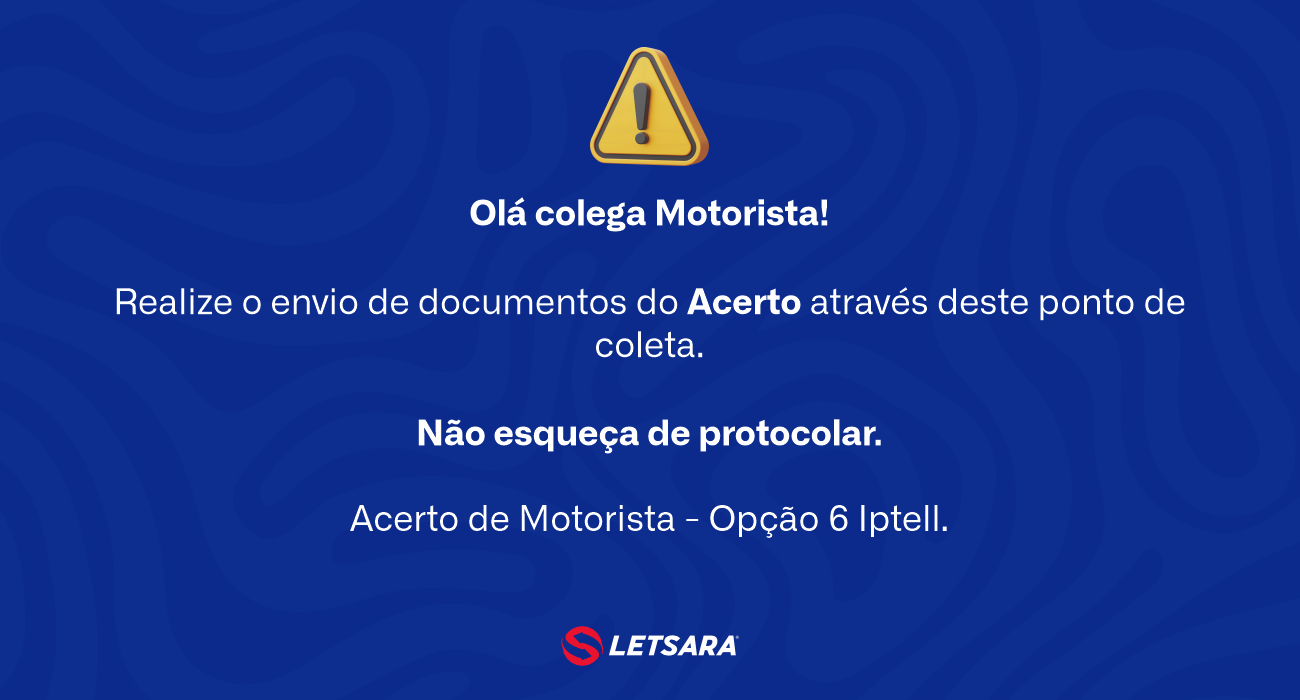
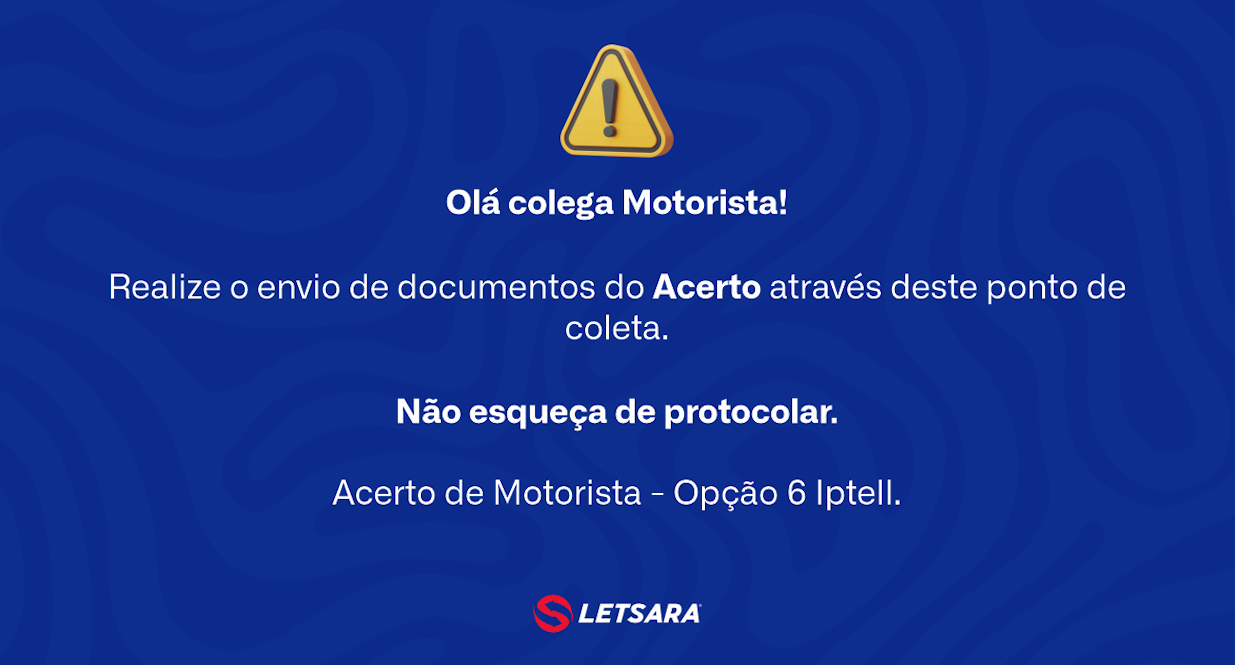
Update

diff --git a/app.py b/app.py
@@ -23,7 +23,9 @@ from util import (
     aplicar_filtragem,
 )
 import streamlit.components.v1 as components
-
+from io import BytesIO
+import base64
+from PIL import Image
 # Database Connection
 load_dotenv()
 DB_USER = os.getenv("DB_USER")
@@ -197,9 +199,9 @@ st.markdown(
     f"""
     <style>
         .custom-image {{
-            height: 700px;  /* 80% da altura da viewport */
-            object-fit: fill;  /* Mantém a proporção sem distorcer a imagem */
-            width: 1300px;  /* Ajusta a largura da imagem ao container */
+            height: 650px;  /* 80% da altura da viewport */
+            object-fit: fit;  /* Mantém a proporção sem distorcer a imagem */
+            width: 1200px;  /* Ajusta a largura da imagem ao container */
         }}
     </style>
 """,
